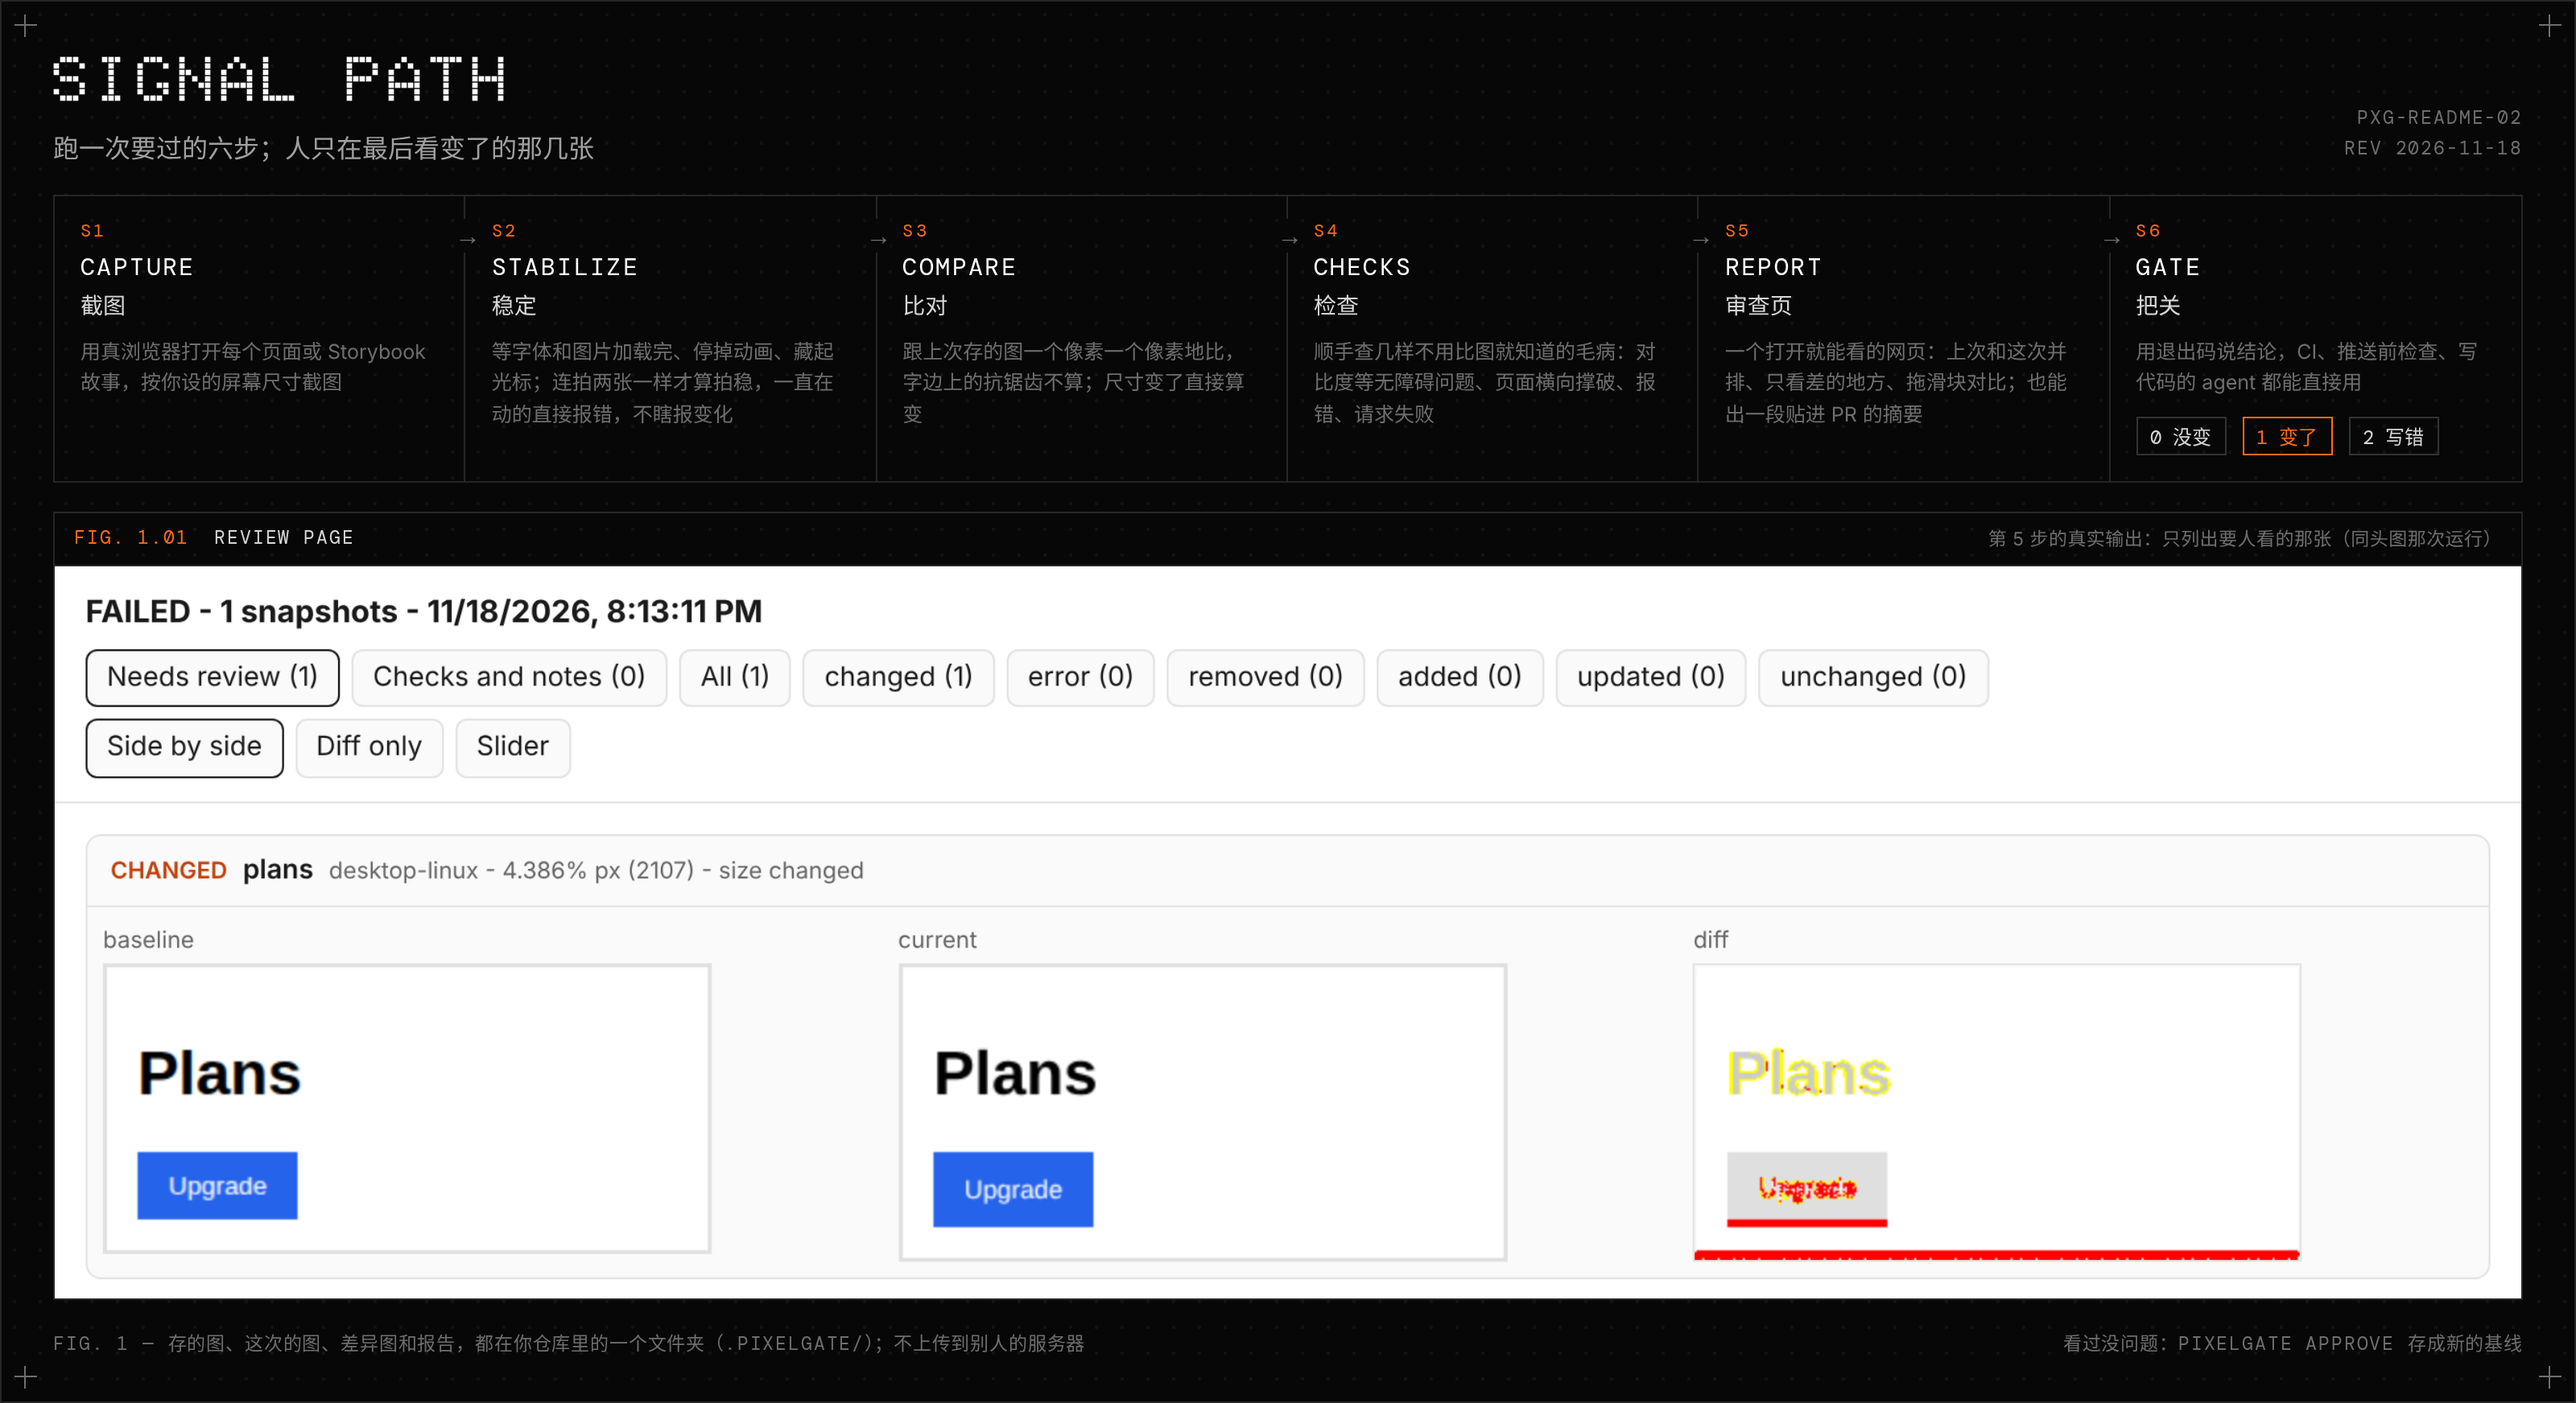
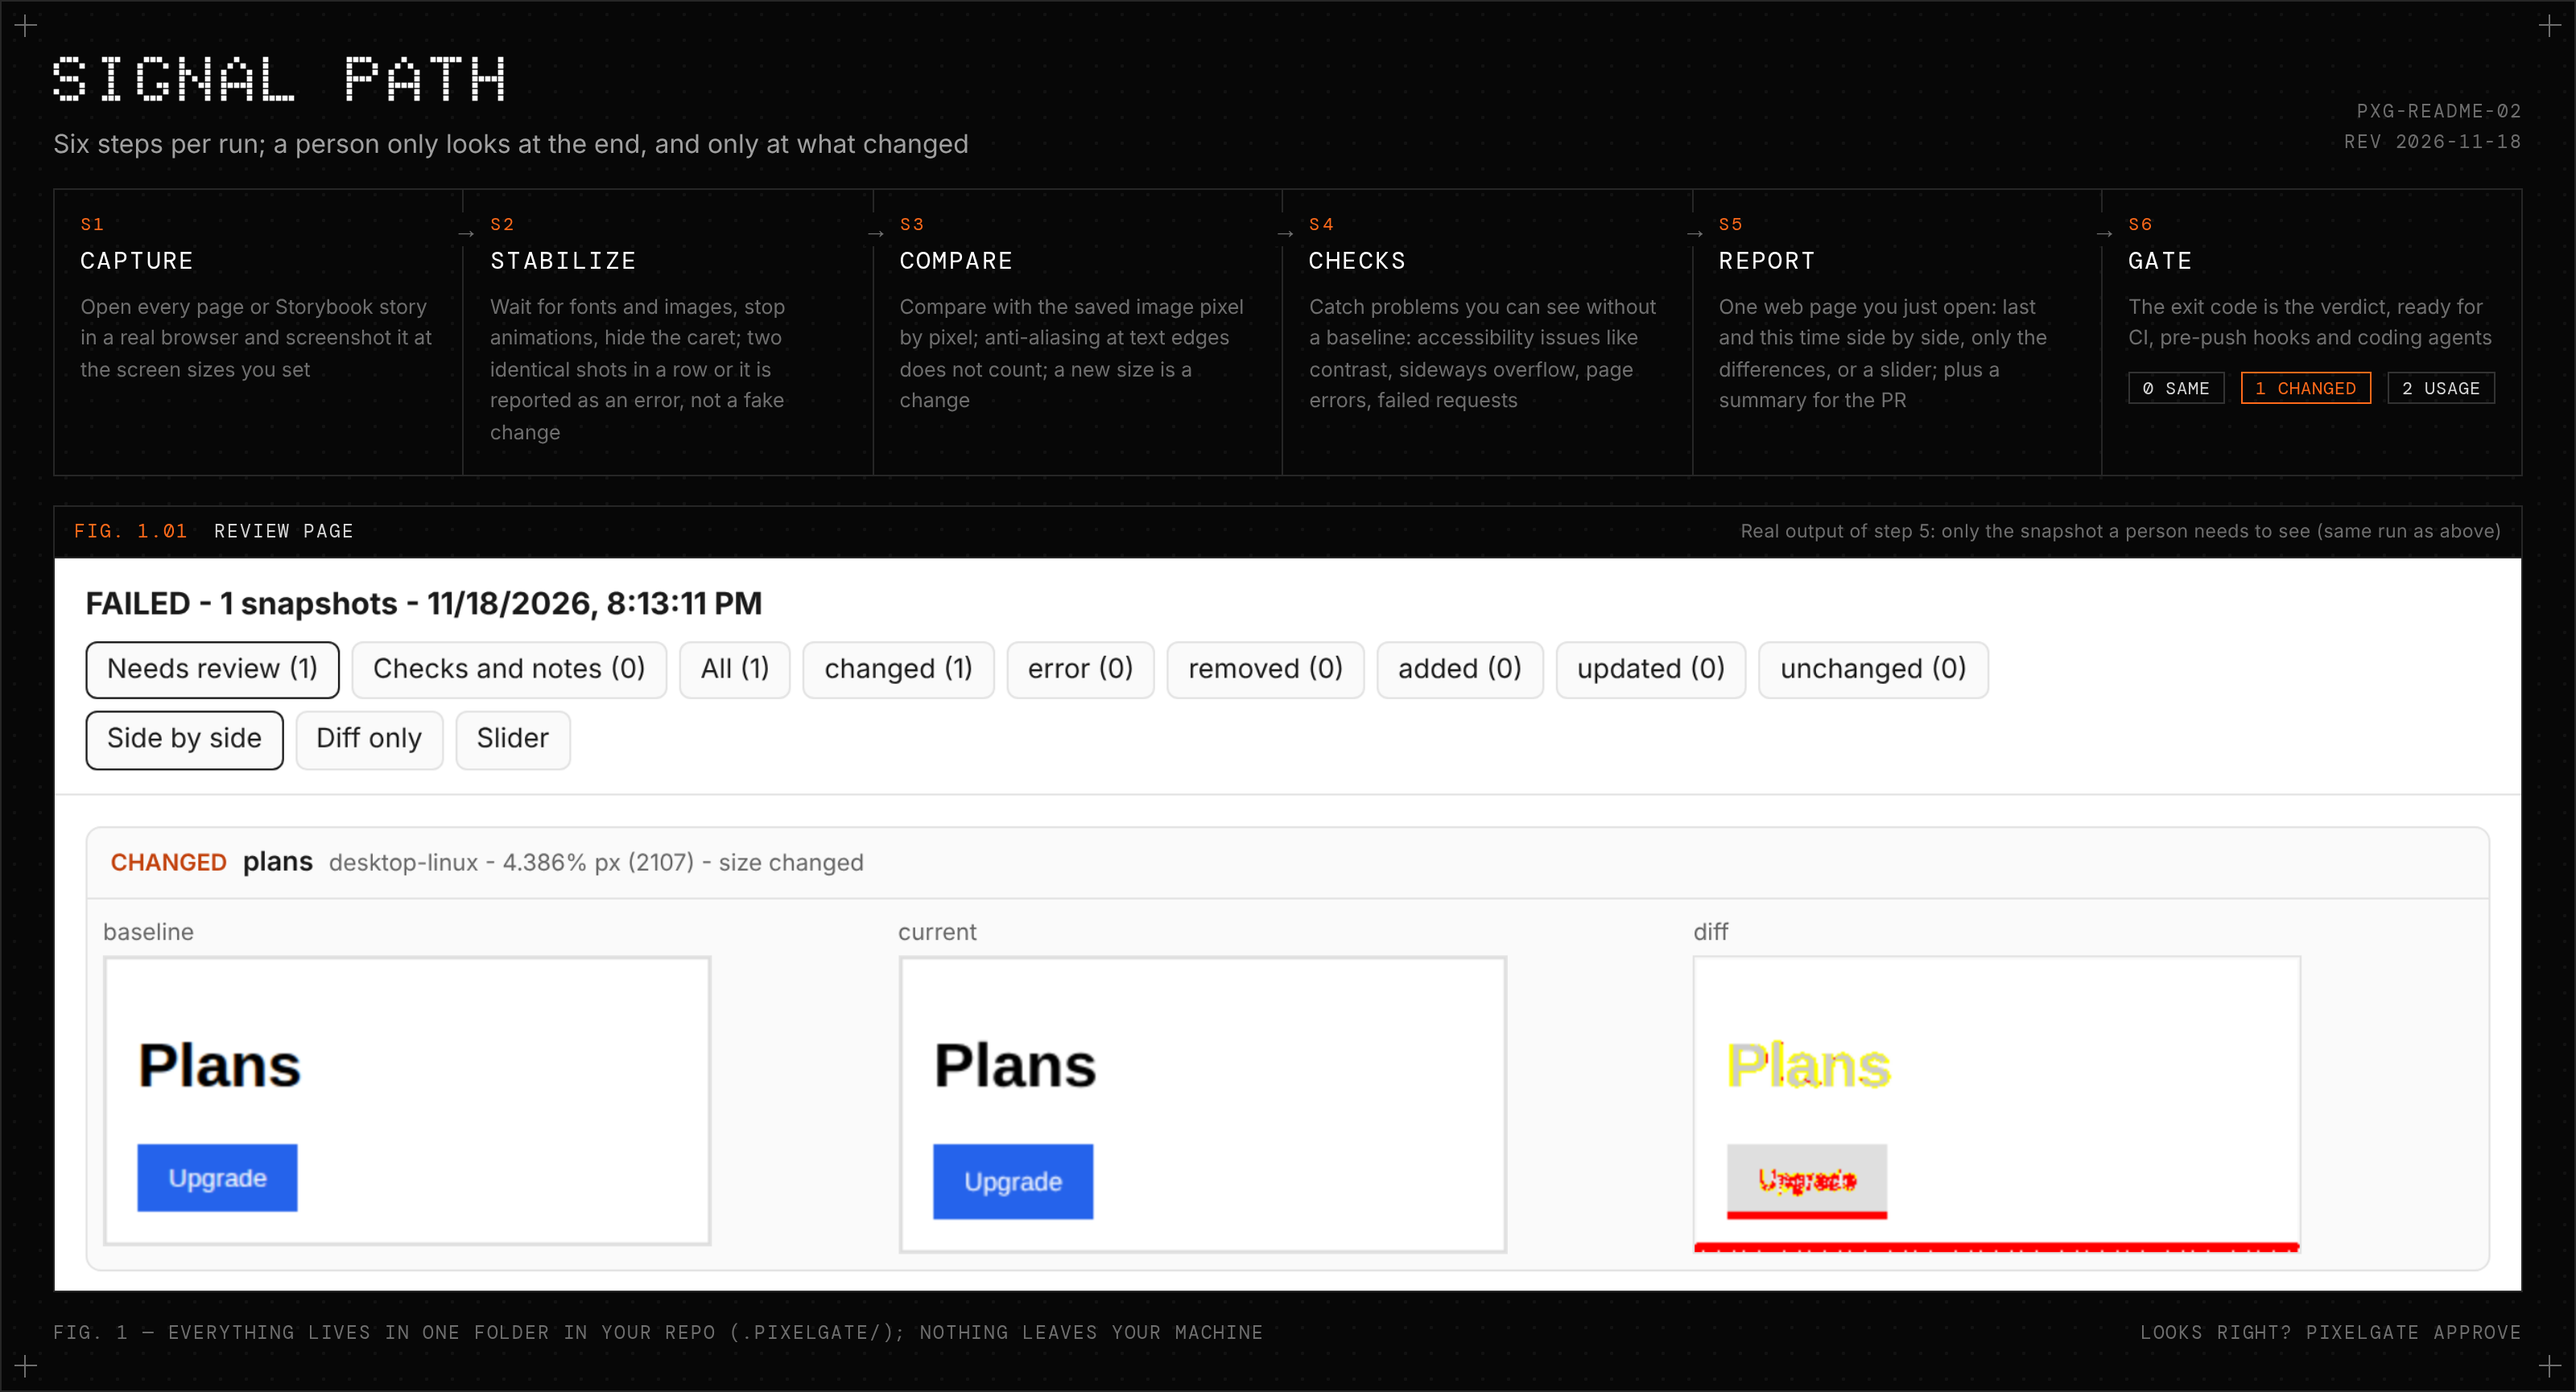
docs: English README images; the Chinese ones move to *.zh-CN.png
Claude-Session: https://claude.ai/code/session_01TinTN9GzHavPLAPRaWMFtd

diff --git a/README.zh-CN.md b/README.zh-CN.md
@@ -2,7 +2,7 @@
 
 [English](README.md) · 中文
 
-![pixelgate：把截图当信号读](docs/images/hero.png)
+![pixelgate：把截图当信号读](docs/images/hero.zh-CN.png)
 
 界面改没改坏，先让它看一遍。它在你自己的机器上跑，MIT 许可，不用注册，图也不传到别人的服务器。
 
@@ -14,7 +14,7 @@
 
 Happo 这类在线服务也能做，但截图、比对、审查都在人家那边，而且不开源。pixelgate 全在本地：存的图就在你的仓库里，报告就是一个文件夹，里面几张 PNG 加一个 HTML。
 
-![一次运行经过的六站](docs/images/signal-path.png)
+![一次运行经过的六站](docs/images/signal-path.zh-CN.png)
 
 ## 安装
 
